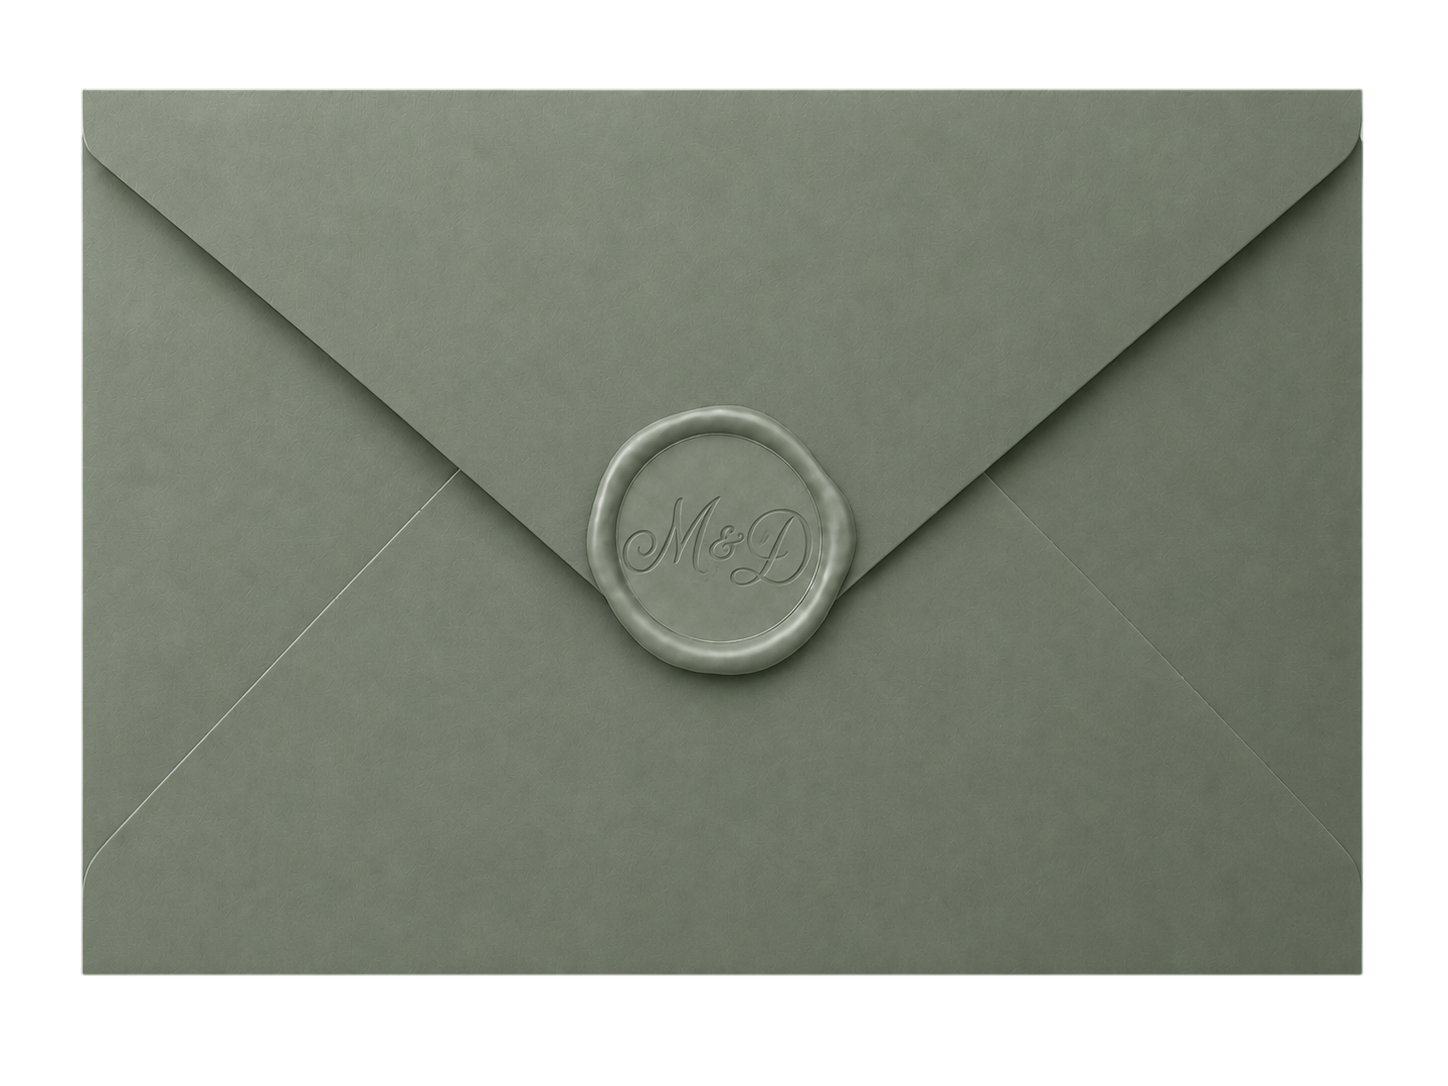
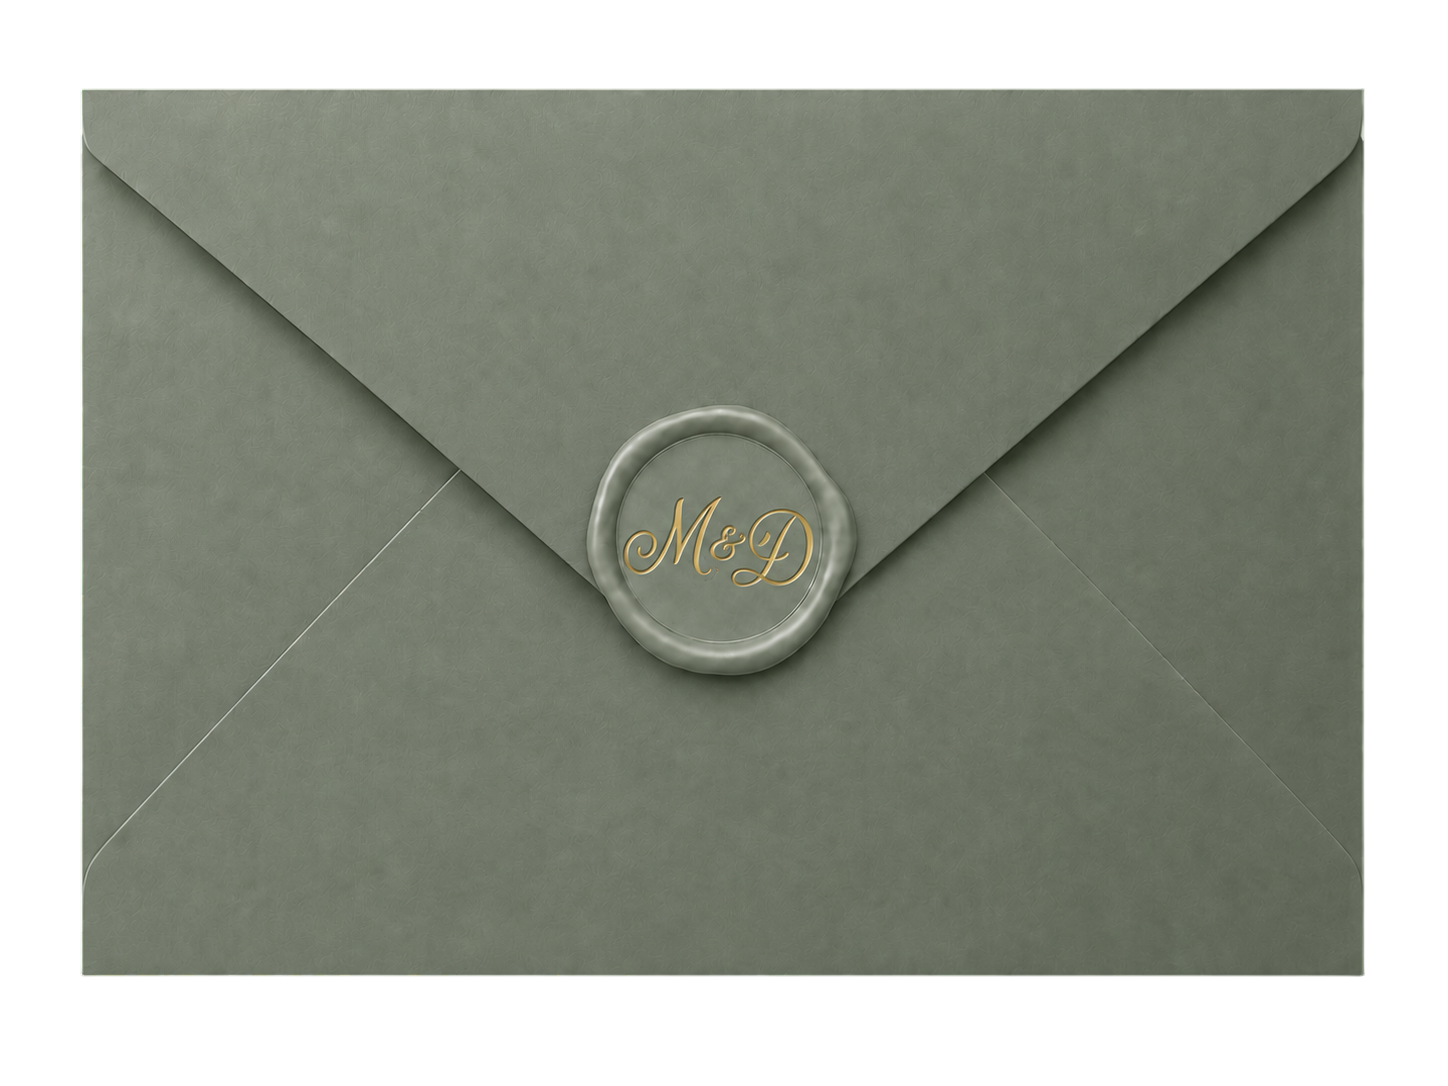
Update final invitation copy and assets

Changed region(s): [[0.4351, 0.4558, 0.5594, 0.5773]]

diff --git a/public/index.html b/public/index.html
@@ -14,7 +14,7 @@
       href="https://fonts.googleapis.com/css2?family=Alex+Brush&family=Cormorant+Garamond:wght@400;500;600;700&family=Inter:wght@400;500;600;700&display=swap"
       rel="stylesheet"
     />
-    <link rel="stylesheet" href="/styles.css?v=57" />
+    <link rel="stylesheet" href="/styles.css?v=58" />
   </head>
   <body class="locked">
     <section class="cover" id="cover" aria-label="Portada de invitación">
@@ -28,7 +28,7 @@
         <p class="cover__date">03.10.2026</p>
 
         <button class="mail-card" id="openInvitation" type="button" aria-label="Abrir invitación">
-          <img src="/assets/stamp/mail.png?v=55" alt="Sobre azul con sello" />
+          <img src="/assets/stamp/mail.png?v=58" alt="Sobre azul con sello" />
         </button>
 
         <div class="cover__hint-wrap" aria-hidden="true">
@@ -50,7 +50,7 @@
 
     <main class="site invitation" id="site">
       <header class="hero reveal" id="inicio">
-        <img src="/assets/couple-hero.png?v=55" alt="Mariana y Daniel" />
+        <img src="/assets/couple-hero.png?v=58" alt="Mariana y Daniel" />
         <div class="hero__shade"></div>
         <div class="hero__content">
           <p>Nuestra boda</p>
@@ -67,8 +67,9 @@
           <p class="script-line">a celebrar</p>
           <h2>Nuestra boda</h2>
           <div class="date-ticket">Sábado 3 de octubre, 2026 · 1:30 p. m.</div>
+          <p class="countdown-label">Faltan:</p>
           <div class="countdown" id="countdown" aria-label="Cuenta regresiva">
-            <div><strong id="days">000</strong><span>Días</span></div>
+            <div><strong id="days">0</strong><span>Días</span></div>
             <div><strong id="hours">00</strong><span>Horas</span></div>
             <div><strong id="minutes">00</strong><span>Min</span></div>
             <div><strong id="seconds">00</strong><span>Seg</span></div>
@@ -78,7 +79,7 @@
 
       <section class="paper-section gratitude reveal">
         <div class="section-inner narrow">
-          <img class="memory-photo" src="/assets/gratitude.png?v=55" alt="Detalle romántico de boda" />
+          <img class="memory-photo" src="/assets/gratitude.png?v=58" alt="Detalle romántico de boda" />
           <blockquote>
             “Cuando te das cuenta de que quieres pasar el resto de tu vida con alguien, deseas que
             el resto de tu vida comience cuanto antes.”
@@ -123,7 +124,7 @@
           <figure class="scripture-photo">
             <img
               id="scriptureCarouselImage"
-              src="/assets/photo/0.png?v=55"
+              src="/assets/photo/0.png?v=58"
               alt="Mariana y Daniel"
             />
             <button
@@ -156,7 +157,7 @@
       </section>
 
       <section class="banner reveal">
-        <img src="/assets/couple-foother.png?v=55" alt="Mariana y Daniel en paisaje" />
+        <img src="/assets/couple-foother.png?v=58" alt="Mariana y Daniel en paisaje" />
         <div>
           <h2>Mariana &amp; Daniel</h2>
           <p>Nos encantaría compartir este día contigo</p>
@@ -177,7 +178,7 @@
             </span>
             <p class="eyebrow">Obsequios</p>
             <p>Lo más importante para nosotros será contar con tu presencia.</p>
-            <p>Si deseas hacernos un obsequio, tendremos sobres a disposición el día de la boda.</p>
+            <p>Si deseas hacernos un obsequio puede ser en efectivo, tendremos sobres a disposición el día de la boda.</p>
             <p class="sinpe-line">SINPE Móvil: 8911-9310 / 8961-6820</p>
           </article>
           <article class="detail-card">
@@ -190,7 +191,7 @@
               </svg>
             </span>
             <p class="eyebrow">Código de vestimenta</p>
-            <h3>Formal elegante</h3>
+            <h3>Formal</h3>
             <p>Puedes vestir el color que más te guste, pero nos reservamos el color blanco, verde musgo, rosado y gris</p>
             <div class="dress-palette-row">
               <strong>No usar</strong>
@@ -247,10 +248,10 @@
       </section>
 
       <footer class="brand-footer reveal">
-        <img src="/assets/stamp/marca.png?v=55" alt="Marca de invitaciones" />
+        <img src="/assets/stamp/marca.png?v=58" alt="Marca de invitaciones" />
       </footer>
     </main>
 
-    <script src="/script.js?v=57"></script>
+    <script src="/script.js?v=58"></script>
   </body>
 </html>

diff --git a/public/styles.css b/public/styles.css
@@ -1739,6 +1739,16 @@ body:not(.locked) .site {
   text-transform: uppercase;
 }
 
+.countdown-label {
+  margin: 24px auto 0;
+  color: var(--blue-900);
+  font-family: "Cormorant Garamond", Georgia, serif;
+  font-size: clamp(1.35rem, 4vw, 2rem);
+  font-weight: 500;
+  letter-spacing: 0.08em;
+  text-transform: uppercase;
+}
+
 .flower {
   position: absolute;
   width: 150px;

diff --git a/public/script.js b/public/script.js
@@ -12,7 +12,7 @@ const carouselCount = document.getElementById("carouselCount");
 const revealItems = document.querySelectorAll(".reveal");
 const rsvpForm = document.getElementById("rsvpForm");
 const carouselPhotos = ["0.png", "1.png", "2.png", "3.png", "4.png"];
-const assetVersion = "55";
+const assetVersion = "58";
 let isOpening = false;
 let carouselIndex = 0;
 